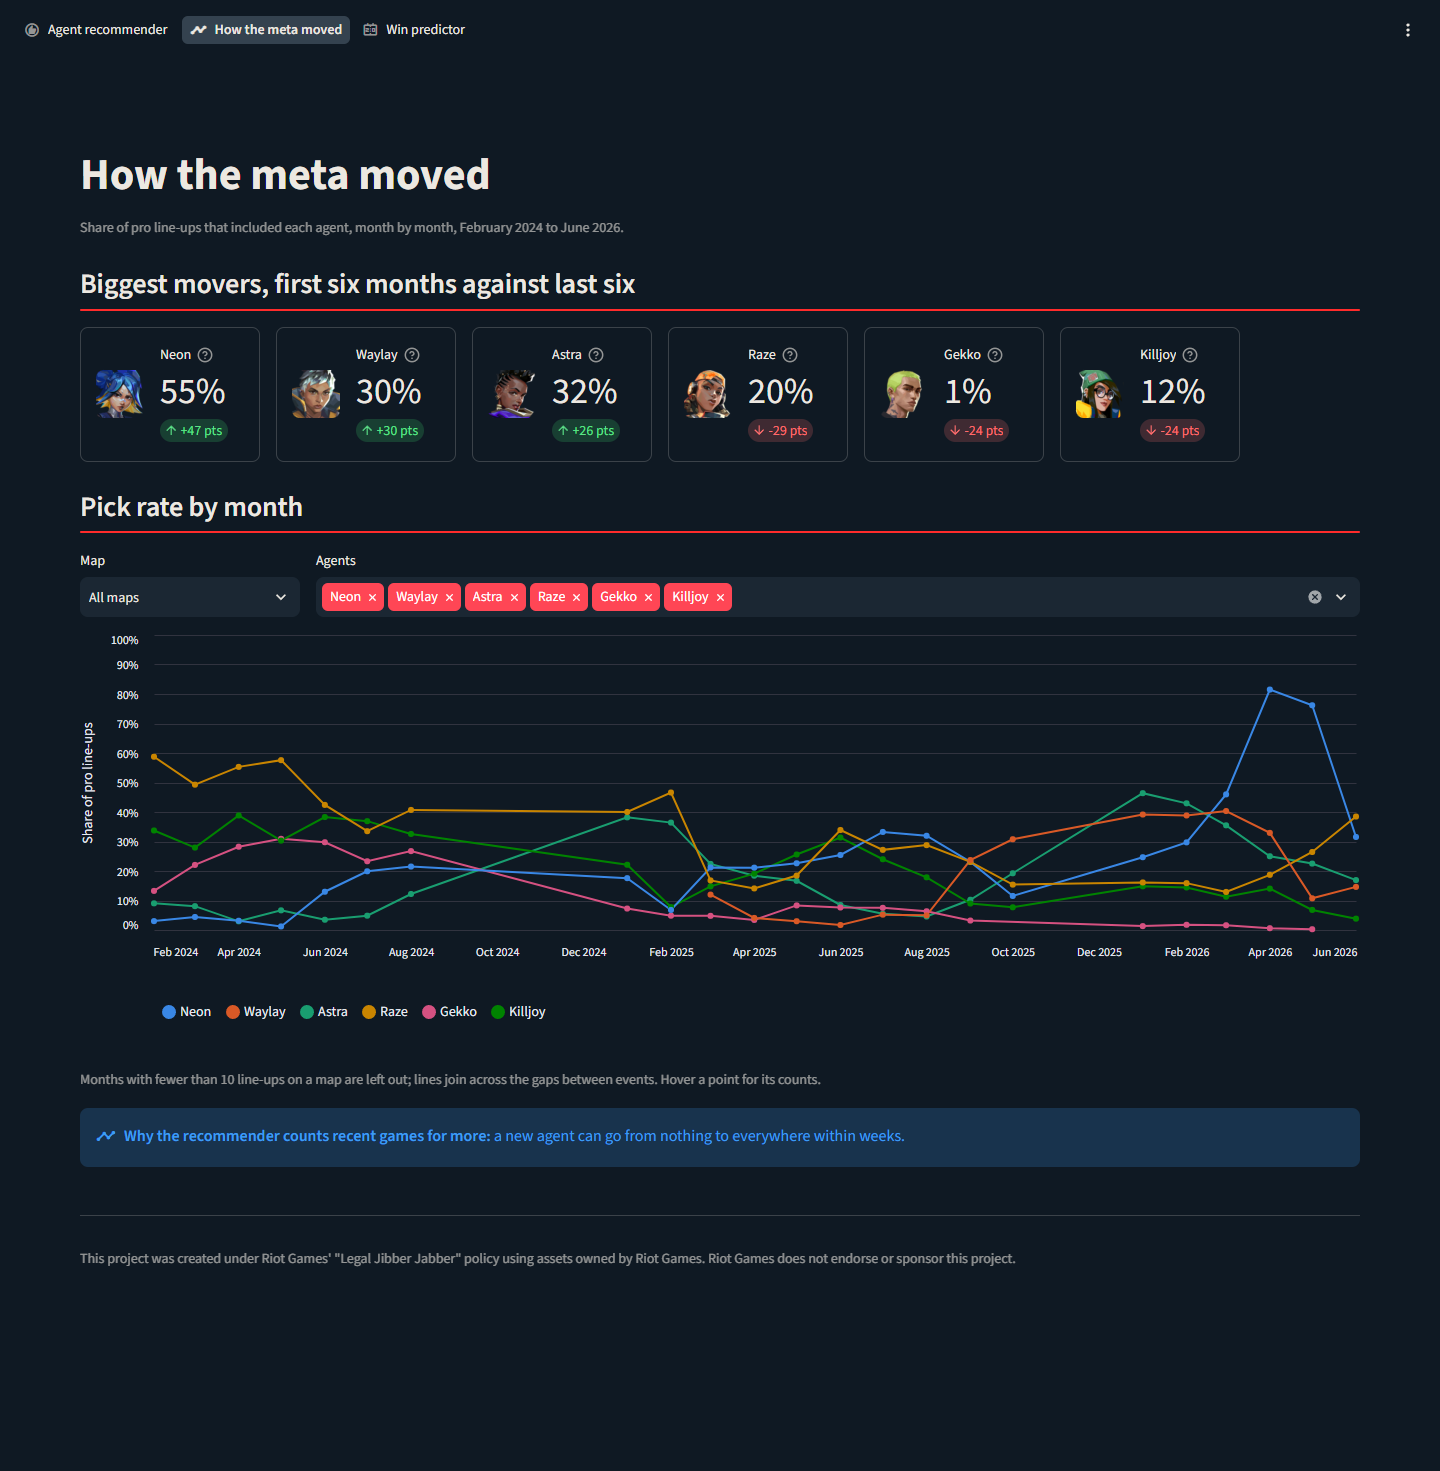
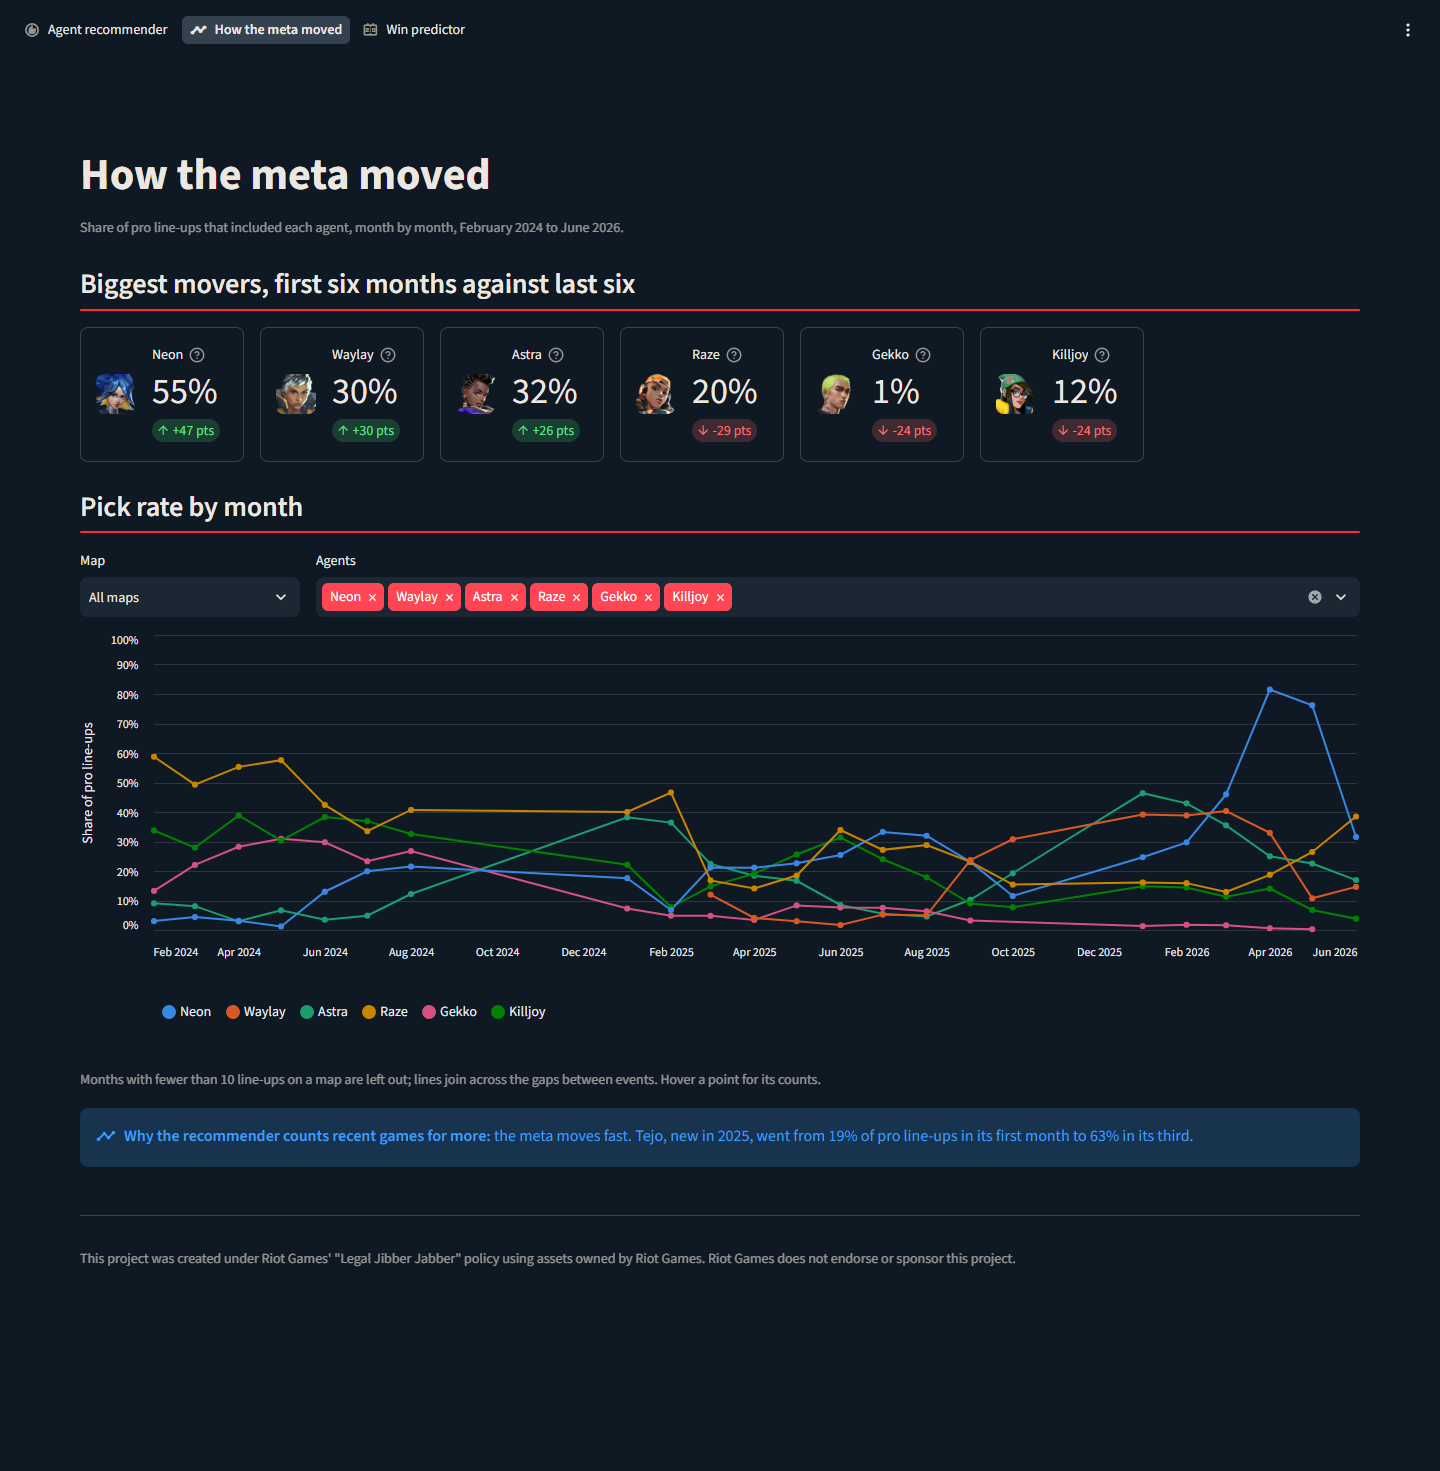
Final review fixes and a draft talk script
A last check of the deck, speaker notes, script and app against the notebooks: slide 6's label now matches the testing timeline, slide 3's note says four years like the slide, the meta page's claim about new agents now uses Tejo's real rise, and the win predictor no longer says everything else made it worse. Adds presentation/talk_script.md.

Changed region(s): [[0.1875, 0.2141, 0.8438, 0.3059], [0.3438, 0.7648, 0.8125, 0.7954], [0.0625, 0.2141, 0.1562, 0.3059]]

diff --git a/app_pages/win_predictor.py b/app_pages/win_predictor.py
@@ -258,7 +258,7 @@ A logistic regression turns them into a probability. Fitted on the {len(learn):,
 late June 2025, then scored once on the {len(maps) - len(learn):,} after: {TEST_FORM_ACCURACY:.1%}
 against {TEST_PICKER_ACCURACY:.1%} for guessing whoever picked the map.
 
-**Why so few inputs?** Everything else made it worse: adding the 27 agent columns dropped it
+**Why so few inputs?** Nothing else I tried helped: adding the 27 agent columns dropped it
 from {DEV_FORM_ACCURACY:.1%} to about 55% in development.
 
 **It can't see** roster changes, opponent strength, or anything else about the match.

diff --git a/app_pages/meta.py b/app_pages/meta.py
@@ -148,7 +148,7 @@ else:
     )
 
 st.info(
-    "**Why the recommender counts recent games for more:** a new agent can go from nothing to "
-    "everywhere within weeks.",
+    "**Why the recommender counts recent games for more:** the meta moves fast. Tejo, new in 2025, "
+    "went from 19% of pro line-ups in its first month to 63% in its third.",
     icon=":material/timeline:",
 )
